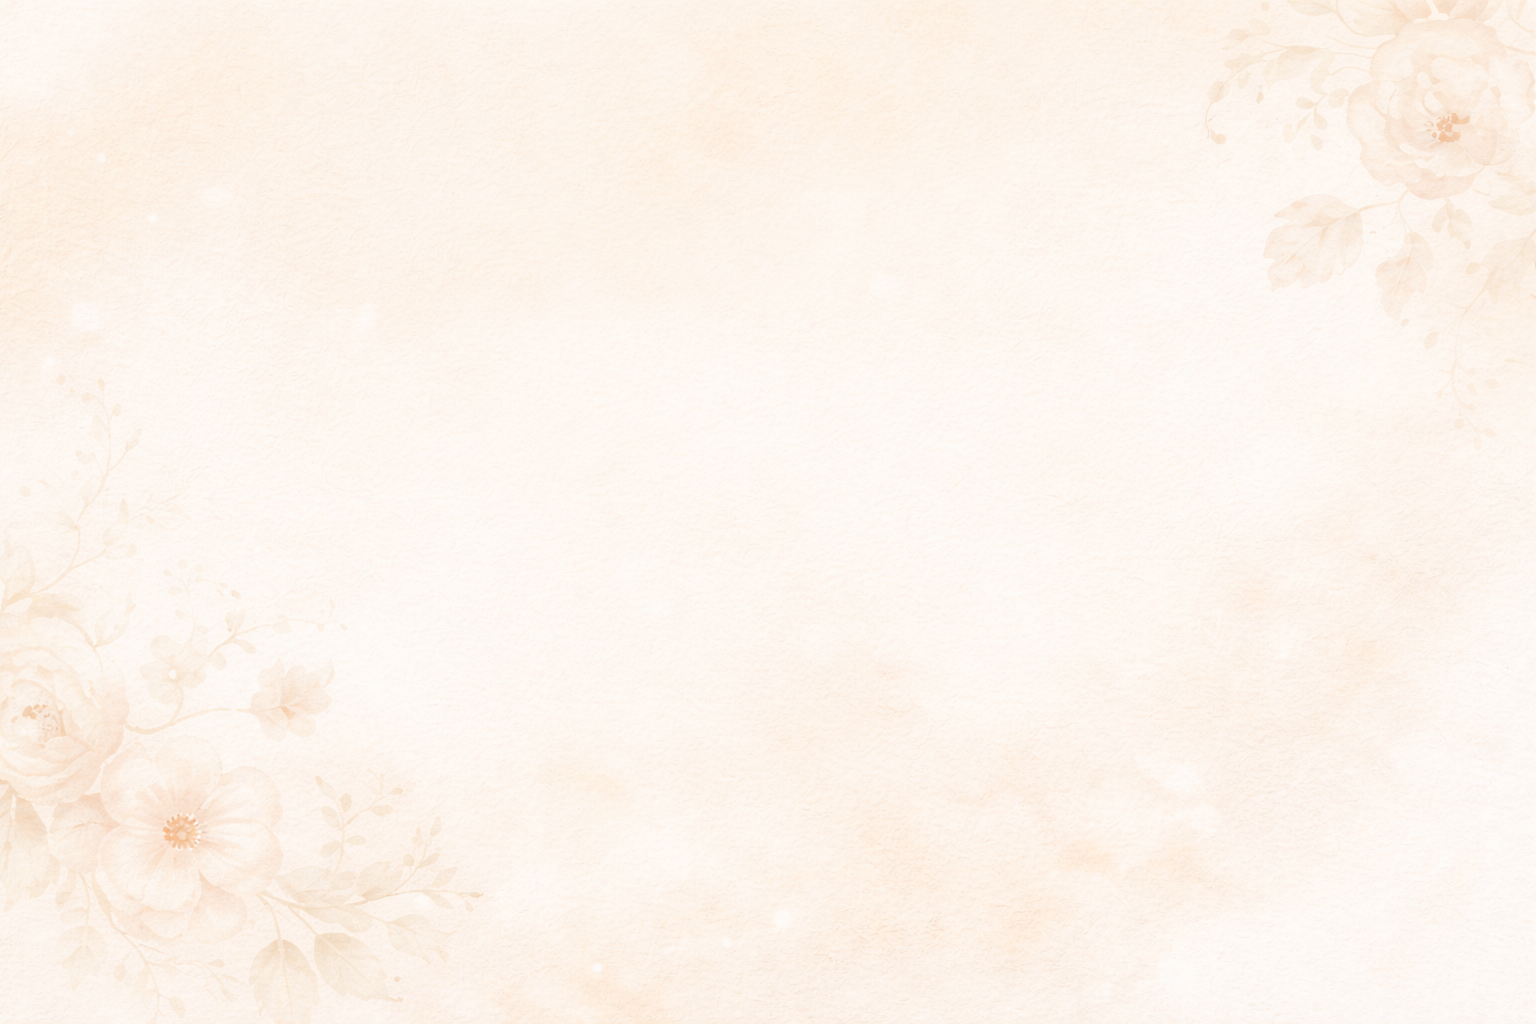
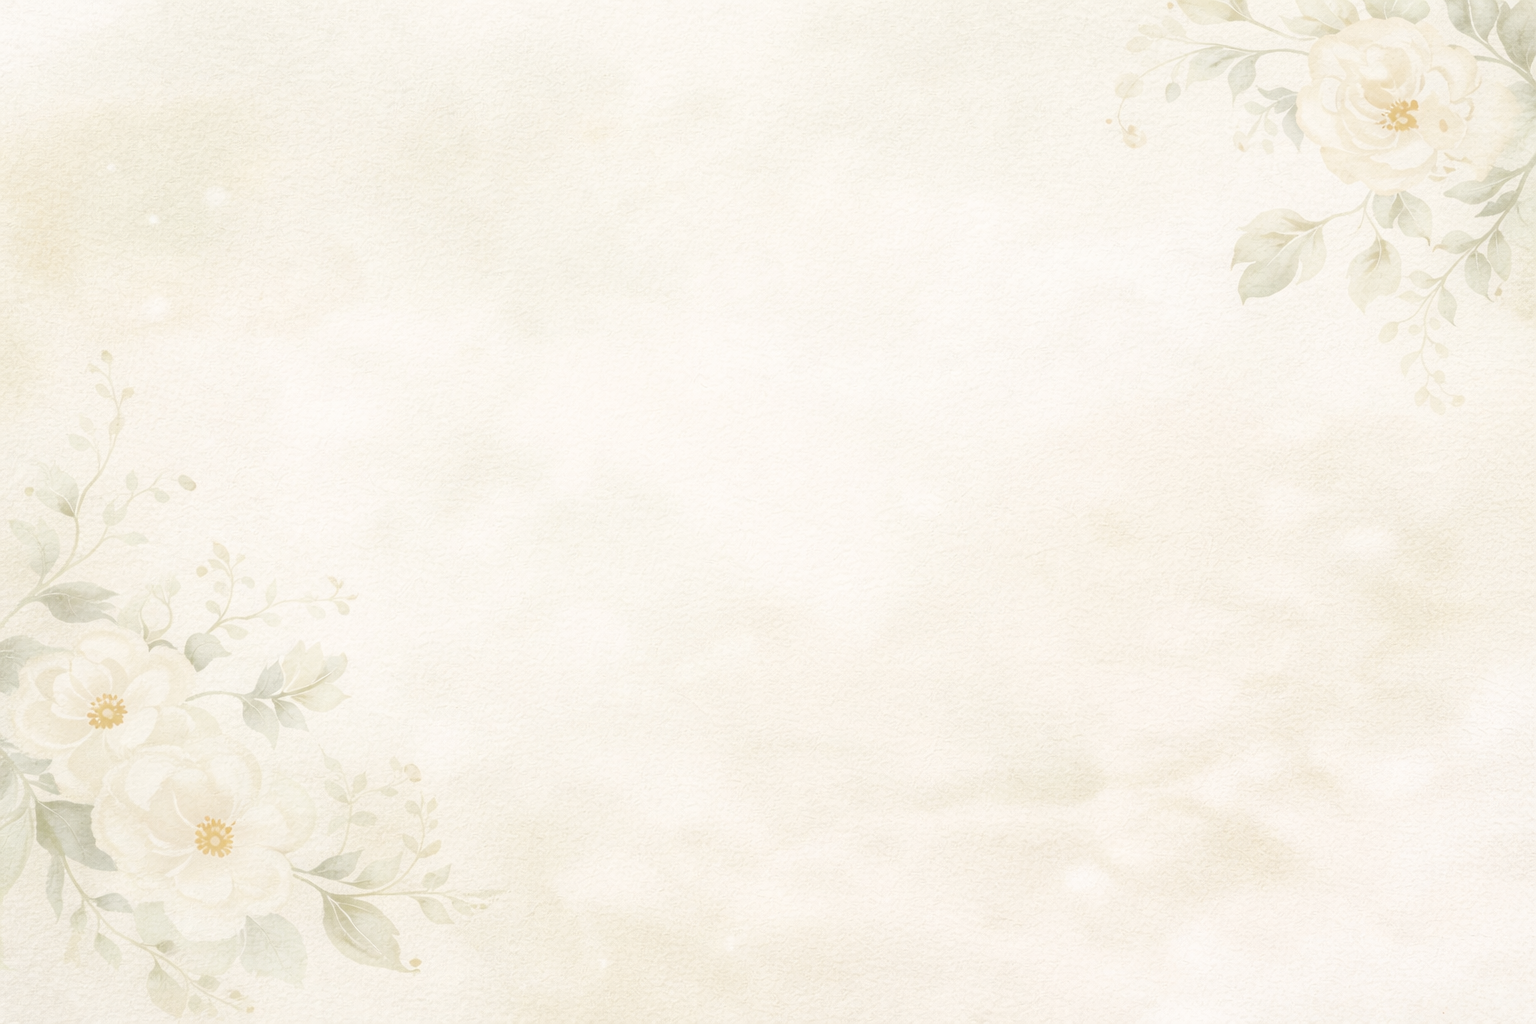
Intensifica verde salvia, nuevas imágenes hero y OG
- Paleta más verde: fondos, bordes y textos con mayor presencia botánica
- Reemplaza hero.png con nueva imagen
- Reemplaza og.jpg por og.png (nueva imagen WS/redes), actualiza meta tags

diff --git a/index.html b/index.html
@@ -10,8 +10,8 @@
   <meta property="og:url"               content="https://boda-adriana-david.vercel.app/">
   <meta property="og:title"             content="Adriana &amp; David · 19 de Junio, 2026">
   <meta property="og:description"       content="Nos casamos. Queremos compartir este día tan especial contigo.">
-  <meta property="og:image"             content="https://boda-adriana-david.vercel.app/og.jpg?v=2">
-  <meta property="og:image:type"        content="image/jpeg">
+  <meta property="og:image"             content="https://boda-adriana-david.vercel.app/og.png?v=3">
+  <meta property="og:image:type"        content="image/png">
   <meta property="og:image:width"       content="1200">
   <meta property="og:image:height"      content="630">
   <meta property="og:image:alt"         content="Invitación de boda Adriana &amp; David">
@@ -22,7 +22,7 @@
   <meta name="twitter:card"             content="summary_large_image">
   <meta name="twitter:title"            content="Adriana &amp; David · 19 de Junio, 2026">
   <meta name="twitter:description"      content="Nos casamos. Queremos compartir este día tan especial contigo.">
-  <meta name="twitter:image"            content="https://boda-adriana-david.vercel.app/og.jpg?v=2">
+  <meta name="twitter:image"            content="https://boda-adriana-david.vercel.app/og.png?v=3">
 
   <title>Adriana &amp; David · 19 de Junio, 2026</title>
 
@@ -35,22 +35,22 @@
        VARIABLES
     ============================================================ */
     :root {
-      --bg:           #F7F5EF;
-      --bg-warm:      #ECEEE6;
-      --bg-card:      #F0F2EA;
-      --bg-white:     #FAFAF6;
-      --border:       #C3C9B5;
-      --border-soft:  #D6DBC9;
-      --gold:         #C0B38A;
-      --gold-dark:    #8A7C56;
-      --gold-light:   #D4C9A4;
-      --gold-faint:   rgba(192,179,138,0.12);
-      --sage:         #596B5C;
-      --sage-dark:    #3C4D3F;
-      --text:         #252822;
-      --text-mid:     #515850;
-      --text-soft:    #879082;
-      --text-ghost:   #B0BAAC;
+      --bg:           #F4F5EE;
+      --bg-warm:      #E6EAE0;
+      --bg-card:      #EAEDDF;
+      --bg-white:     #F7F8F2;
+      --border:       #B3BCA2;
+      --border-soft:  #C8D0B8;
+      --gold:         #BAA87C;
+      --gold-dark:    #7E6E48;
+      --gold-light:   #CEBD96;
+      --gold-faint:   rgba(186,168,124,0.14);
+      --sage:         #4E6352;
+      --sage-dark:    #344438;
+      --text:         #222620;
+      --text-mid:     #4A5446;
+      --text-soft:    #7A8B75;
+      --text-ghost:   #A8B5A0;
       --white:        #FFFFFF;
 
       --serif: 'Cormorant Garamond', 'Times New Roman', Georgia, serif;
